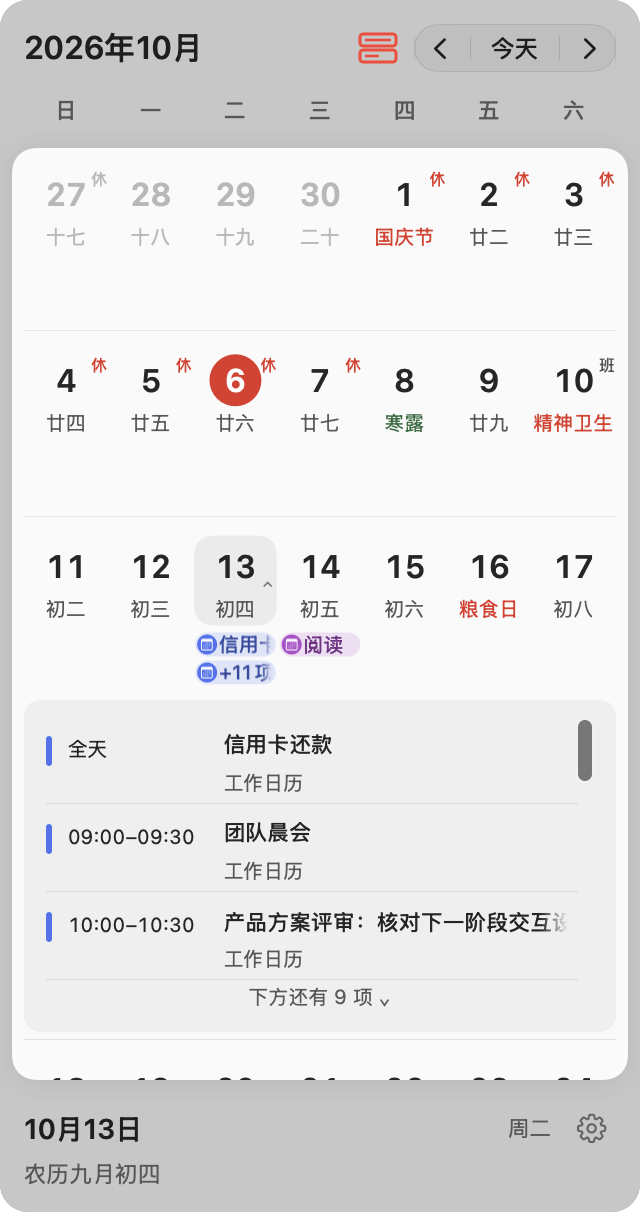
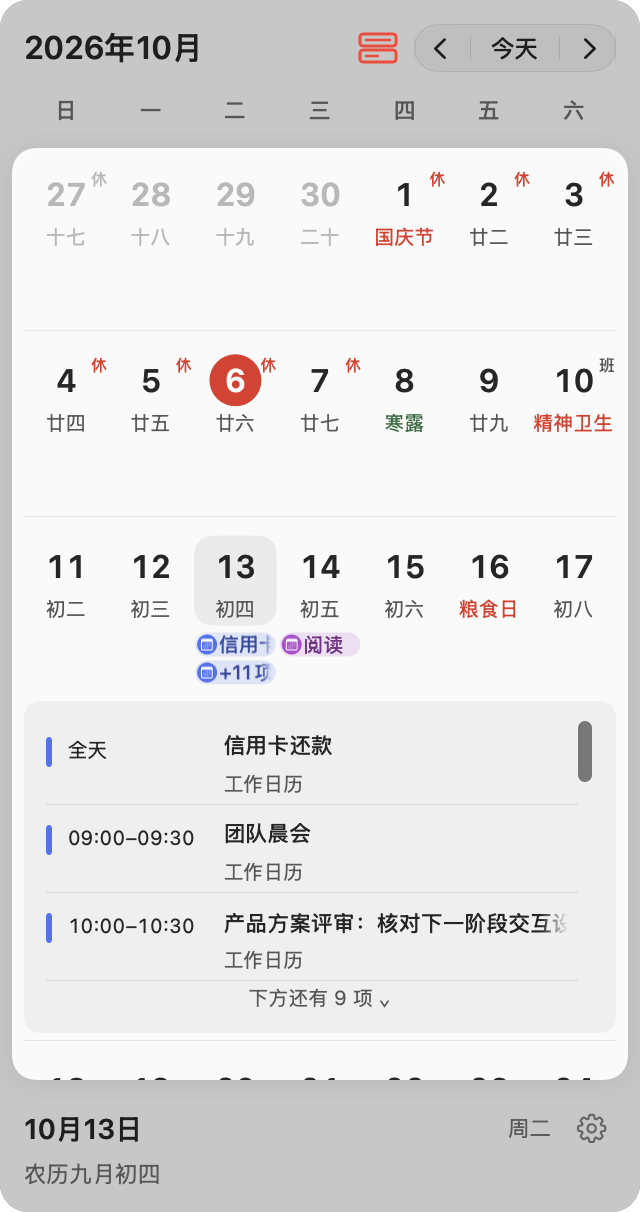
fix(calendar): 修复日程标题点击重影并移除日期箭头

diff --git a/Sources/DayOrder/CalendarAgendaTitleSmoke.swift b/Sources/DayOrder/CalendarAgendaTitleSmoke.swift
@@ -1,0 +1,84 @@
+#if DEBUG
+import AppKit
+
+@MainActor enum CalendarAgendaTitleSmoke {
+    static func verify(title: NSTextField, root: NSView, name: String,
+                       save: (NSView, String) throws -> Void) throws {
+        func require(_ condition: Bool, _ message: String) throws {
+            guard condition else { throw NSError(domain: "DayOrder.AgendaTitle", code: 1,
+                userInfo: [NSLocalizedDescriptionKey: message]) }
+        }
+        func capture() throws -> NSBitmapImageRep {
+            guard let bitmap = title.bitmapImageRepForCachingDisplay(in: title.bounds) else {
+                throw CocoaError(.coderInvalidValue)
+            }
+            title.cacheDisplay(in: title.bounds, to: bitmap)
+            return bitmap
+        }
+        guard let window = title.window else { throw CocoaError(.coderInvalidValue) }
+        window.makeFirstResponder(nil)
+        defer { window.makeFirstResponder(nil) }
+        let font = title.font
+        let before = try capture()
+        for attempt in 1...2 {
+            let point = title.convert(NSPoint(x: 40, y: title.bounds.midY), to: nil)
+            let timestamp = ProcessInfo.processInfo.systemUptime
+            guard let down = NSEvent.mouseEvent(with: .leftMouseDown, location: point, modifierFlags: [],
+                timestamp: timestamp, windowNumber: window.windowNumber, context: nil,
+                eventNumber: 1, clickCount: 1, pressure: 1),
+                  let up = NSEvent.mouseEvent(with: .leftMouseUp, location: point, modifierFlags: [],
+                timestamp: timestamp + 0.01, windowNumber: window.windowNumber, context: nil,
+                eventNumber: 2, clickCount: 1, pressure: 0) else { throw CocoaError(.coderInvalidValue) }
+            NSApp.postEvent(up, atStart: false)
+            NSApp.sendEvent(down)
+            guard let editor = title.currentEditor() else { throw NSError(domain: "DayOrder.AgendaTitle", code: 1,
+                userInfo: [NSLocalizedDescriptionKey: "真实点击未进入标题选择状态：\(name)"]) }
+            try require(editor.string == title.stringValue && title.font == font, "点击改变了标题或字体：\(name)")
+            // 原生快照会重新组织文字选择层；保持实时焦点，仅取底层字段的绘制输出。
+            let underneath: NSBitmapImageRep = try {
+                guard let bitmap = title.bitmapImageRepForCachingDisplay(in: title.bounds),
+                      let context = NSGraphicsContext(bitmapImageRep: bitmap) else { throw CocoaError(.coderInvalidValue) }
+                NSGraphicsContext.saveGraphicsState()
+                defer { NSGraphicsContext.restoreGraphicsState() }
+                let cg = context.cgContext
+                cg.clear(CGRect(x: 0, y: 0, width: bitmap.pixelsWide, height: bitmap.pixelsHigh))
+                cg.translateBy(x: 0, y: CGFloat(bitmap.pixelsHigh))
+                cg.scaleBy(x: CGFloat(bitmap.pixelsWide) / title.bounds.width,
+                           y: -CGFloat(bitmap.pixelsHigh) / title.bounds.height)
+                NSGraphicsContext.current = NSGraphicsContext(cgContext: cg, flipped: true)
+                title.draw(title.bounds)
+                return bitmap
+            }()
+            var peak: CGFloat = 0
+            for y in 0..<underneath.pixelsHigh {
+                for x in 0..<underneath.pixelsWide {
+                    peak = max(peak, underneath.colorAt(x: x, y: y)?.alphaComponent ?? 0)
+                }
+            }
+            try require(peak < 0.1, "选择状态仍重复绘制标题：\(name)，底层透明度=\(peak)")
+            try save(root, "agenda-title-\(name)-selected-\(attempt)")
+            window.makeFirstResponder(nil)
+            try require(title.currentEditor() == nil, "退出选择后仍保留文字层")
+            let after = try capture()
+            try require(before.pixelsWide == after.pixelsWide && before.pixelsHigh == after.pixelsHigh,
+                        "点击改变了标题绘制尺寸")
+            var error: CGFloat = 0
+            for y in 0..<before.pixelsHigh {
+                for x in 0..<before.pixelsWide {
+                    guard let a = before.colorAt(x: x, y: y)?.usingColorSpace(.deviceRGB),
+                          let b = after.colorAt(x: x, y: y)?.usingColorSpace(.deviceRGB) else {
+                        throw CocoaError(.coderInvalidValue)
+                    }
+                    error += abs(a.redComponent * a.alphaComponent - b.redComponent * b.alphaComponent)
+                        + abs(a.greenComponent * a.alphaComponent - b.greenComponent * b.alphaComponent)
+                        + abs(a.blueComponent * a.alphaComponent - b.blueComponent * b.alphaComponent)
+                        + abs(a.alphaComponent - b.alphaComponent)
+                }
+            }
+            error /= CGFloat(before.pixelsWide * before.pixelsHigh * 4)
+            try require(error < 0.01, "退出选择后没有恢复原始标题与渐隐：\(name)，像素误差=\(error)")
+        }
+        try save(root, "agenda-title-\(name)-restored")
+    }
+}
+#endif

diff --git a/Sources/DayOrder/CalendarTimelineView.swift b/Sources/DayOrder/CalendarTimelineView.swift
@@ -620,7 +620,6 @@ final class CalendarWeekView: NSView {
                 today: model.today, selection: model.selection, enabled: model.engine.isSupported(day.date)) {
                     [weak model] in model?.activateVisibleDay(day.date, in: sectionMonth)
                 }
-            button.agendaExpanded = model.agenda?.date == day.date && !agendaView.isHidden
             button.setAccessibilityHelp(mode == .hidden ? nil : model.agenda?.date == day.date
                 ? "再次点击收起当天日程" : "选中后再次点击展开当天日程")
         }
@@ -651,7 +650,6 @@ final class CalendarWeekView: NSView {
 final class CalendarDayButton: NSButton, CalendarZoomParticipant {
     var zoomHiddenDays: Set<Int> = []
     var snapshotHidesEventMarkers = false
-    var agendaExpanded = false
     private var day: DayInfo?
     private var annotation: Annotation?
     private var holiday: HolidayDay?
@@ -749,16 +747,6 @@ final class CalendarDayButton: NSButton, CalendarZoomParticipant {
             drawText(holiday.badge, rect: NSRect(x: bounds.width - 9, y: 3, width: 9, height: 10),
                      font: .systemFont(ofSize: 8, weight: .medium),
                      color: !isInMonth ? muted : holiday.isOffDay ? Self.accent : CalendarSurface.secondaryTextColor)
-        }
-        if selected, eventMode != .hidden {
-            NSColor.secondaryLabelColor.setStroke()
-            let path = NSBezierPath()
-            path.lineWidth = 0.8
-            let y: CGFloat = agendaExpanded ? 26 : 23
-            path.move(to: NSPoint(x: bounds.width - 7, y: y))
-            path.line(to: NSPoint(x: bounds.width - 5, y: agendaExpanded ? y - 2 : y + 2))
-            path.line(to: NSPoint(x: bounds.width - 3, y: y))
-            path.stroke()
         }
         if !snapshotHidesEventMarkers, eventMode != .hidden, !events.isEmpty {
             NSGraphicsContext.saveGraphicsState()

diff --git a/Sources/DayOrder/AppDelegate.swift b/Sources/DayOrder/AppDelegate.swift
@@ -276,12 +276,15 @@ final class AppDelegate: NSObject, NSApplicationDelegate {
                 NSApp.terminate(nil)
                 return
             }
-            if ProcessInfo.processInfo.arguments.contains("--calendar-agenda-smoke") {
+            let agendaContentOnly = ProcessInfo.processInfo.arguments.contains("--calendar-agenda-content-smoke")
+            if agendaContentOnly || ProcessInfo.processInfo.arguments.contains("--calendar-agenda-smoke") {
                 guard let source = smokeCalendarSource, let presentation = presentationController else { throw CocoaError(.coderInvalidValue) }
                 defaults.set(1, forKey: "firstWeekday")
-                try await CalendarAgendaNavigationSmoke.verify(model: model, presentation: presentation,
-                    source: source, directory: directory,
-                    close: { self.panel.close() }, reopen: { self.showPanel() })
+                if !agendaContentOnly {
+                    try await CalendarAgendaNavigationSmoke.verify(model: model, presentation: presentation,
+                        source: source, directory: directory,
+                        close: { self.panel.close() }, reopen: { self.showPanel() })
+                }
                 try await CalendarAgendaSmoke.verify(model: model, presentation: presentation, source: source,
                     defaults: defaults, directory: directory) { view, name in
                     try self.saveViewSnapshot(view, name: name, to: directory)

diff --git a/Sources/DayOrder/CalendarAgendaSmoke.swift b/Sources/DayOrder/CalendarAgendaSmoke.swift
@@ -226,6 +226,14 @@ import DayOrderCore
                     try require(hasLine == (index < count - 1), "日程分隔线位置错误：\(appearance)，\(count)项，第\(index + 1)项，色差=\(difference)")
                     if hasLine { separators += 1 }
                 }
+                if count == 2 {
+                    try CalendarAgendaTitleSmoke.verify(title: title, root: presentation.view,
+                        name: "\(appearance)-long", save: save)
+                    guard let shortTitle = descendants(rows[1]).compactMap({ $0 as? NSTextField })
+                        .first(where: { $0.stringValue == events[1].title }) else { throw CocoaError(.coderInvalidValue) }
+                    try CalendarAgendaTitleSmoke.verify(title: shortTitle, root: presentation.view,
+                        name: "\(appearance)-short", save: save)
+                }
                 rowReport.append(["appearance": appearance, "count": count, "separators": separators])
             }
             let probe = CalendarEvent(id: "fade-probe", title: String(repeating: "█", count: 40),

diff --git a/Sources/DayOrder/CalendarDayAgendaView.swift b/Sources/DayOrder/CalendarDayAgendaView.swift
@@ -274,6 +274,8 @@ private final class CalendarAgendaEventView: NSView {
 
 private final class CalendarAgendaTitleField: NSTextField {
     override func draw(_ dirtyRect: NSRect) {
+        // 系统文字选择层拥有激活期间的字形，底层不能再叠绘渐隐标题。
+        guard currentEditor() == nil else { return }
         let text = NSAttributedString(string: stringValue.components(separatedBy: .newlines).joined(separator: " "),
             attributes: [.font: font ?? NSFont.systemFont(ofSize: 11, weight: .medium),
                          .foregroundColor: textColor ?? NSColor.labelColor])

diff --git a/docs/calendar-reference.md b/docs/calendar-reference.md
@@ -10,7 +10,7 @@
 - 隐藏日程时，每个月的四至六周均分在 286 pt 高度内；详细、精简和圆点模式分别增加日期区高度至 466、370 和 346 pt，自由浏览与吸附采用相同行高。吸附只平滑移动日期区，将月份标题移到视口上方，不隐藏行或重新排布日期；月份导航、年概览选择和“今天”也以整月显示。返回设置或年概览时恢复此前的吸附状态或自由滚动位置。
 - 顶部年月、星期栏和底部详情不随日期区滚动。顶部年月跟随最上方可见行所属的月份区块。滚动只改变浏览月份，点击日期更新选择和详情并保留滚动位置。每个区块内，仅用于补齐周行的邻月日期数字、农历、节日及休班标记共用弱化颜色：浅色模式使用灰白，深色模式使用暗灰，日期仍可点击；本区块日期保持正常配色，不受顶部年月影响。边界周可能同时出现在相邻月份区块中，作为本月日期时正常显示，作为邻月补位时置灰。
 - 右上角的左右箭头和“今天”组成一体胶囊导航，三个按钮各自响应悬停与按下，年份范围边界处对应箭头置灰禁用。左右箭头从正在浏览的月份切换，保留选中日号，短月取月末，并以约 360 ms 先快后缓、无回弹的纵向动画展示目标整月。连续点击按已请求月份累计，反向点击从当前画面接续；月视图的“今天”采用与箭头一致的先快后缓、无回弹非线性动画，从当前日期区位置滚回今天所在月份，到达后选中今天并更新详情；动画约 0.45–0.70 秒，远距离移动加速，已经完整显示当月时不额外移动。手动滚动、选择其他日期、再次导航或离开月视图会取消旧动画；系统开启“减少动态效果”时直接定位。进入设置或年概览后返回保留浏览位置，从年概览选择月份则定位到目标月。
-- 朱红圆形表示今天，无描边的浅灰连续圆角底表示选中日期。选中底色、按下反馈与键盘焦点只包住日期数字及农历／节日文字，不延伸到日程区域；点击范围仍包含整个日期格。
+- 朱红圆形表示今天，无描边的浅灰连续圆角底表示选中日期。选中底色、按下反馈与键盘焦点只包住日期数字及农历／节日文字，不延伸到日程区域；点击范围仍包含整个日期格。日期格不显示日程展开／收起箭头。
 - 月视图与年概览之间使用无回弹弹簧过渡，感知时长为 300 ms，并在接近静止后结束尾部运动；按所在显示器的刷新节奏推进。中间圆角容器同步调整尺寸，从月视图进入年概览时，以点击瞬间可见面积最大的月份区块为焦点（包含该区块的标题与补位周），面积相同选择时间较晚的月份；焦点不依赖顶部标题或选中日期，并保持到返回原滚动位置。点击年概览中的具体月份则以该月份为焦点。整张日历画布统一缩放和平移；邻月、月份标题、星期、日期和今天红圈一同运动，周围月份随放大移出视口。焦点月份的日期和今天红圈只绘制一份，随共享进度连续展开行距和字号；农历、节日等详情跟随网格渐显。背景按最大显示尺寸预绘制，日期使用原生文字保持清晰。背景与上下栏容器常驻，底栏跟随卡片边缘移动，上下栏内容独立进行约 180 ms 交叉淡化。快速返回或进入设置时，从当前画面与速度接续到新目标；关闭弹窗立即清理过渡。开启系统“减少动态效果”，或返回时原月份已不在年概览可见范围内，则使用约 120 ms 的短淡化。
 - 底部日期详情展示当天节日、世界日和节气的一句话说明；同日多项分别展示，随对应分类开关隐藏，普通日期不显示说明区域。内容内置，离线可读。节气介绍概括传统时令，不是当地天气预报。
 - 菜单栏弹窗采用无箭头圆角面板，位于图标下方；切月、选择日期或切换页面改变高度时，顶部保持锚定，底边随内容伸缩；靠近屏幕边缘时向内调整位置。再次点击图标、点击外部或切换应用时关闭，Esc 保留逐层返回行为；切换桌面空间或显示器布局后关闭，重新点击图标定位。
@@ -69,7 +69,7 @@
 
 同周内优先为跨日日程分配固定行，随后放置单日日程，同一横条不会因某天有其他日程而上下错位。详细模式最多两行，超出时末行显示该日未展开的“+N项”；若末行横条与计数冲突，整段让位并计入各日数量，避免只截断其中一天。精简模式最多三行，同样连接跨日横线；圆点模式仍按日最多显示三个点。颜色沿用来源日历，完整日程标题与数量可通过日期按钮的旁白标签读取。隐藏模式不绘制日程，也不在旁白标签中暴露事件标题。
 
-非隐藏模式下，首次点击日期只选中，再次点击同一天，在所在周的下方展开横跨七列的当天日程；再次点击或按 Esc 关闭。展开时点击其他日期直接切换列表，当前周及上方日期保持原位，详情紧接整周实际显示内容：无日程标记时靠近农历／节日文字，有标记时按整周最末一行（含跨日段与溢出计数）留出间距；回收展开周底部未使用的空白，仅下方周行按净新增高度向下让出空间；展开和收起均保持窗口、日历可视区、顶部导航及底部日期详情的位置与大小不变。经过可视区边缘的周行保持不透明并连续移动，由边缘自然裁切；收起时从下方滑回。超出可视区的后续日期和月末日程通过滚动日历查看。列表标题保持单行，超出宽度时在右侧渐隐截断，完整标题可悬停查看并供旁白读取；时间、下一行的来源日历名及颜色保留，全天日程在前。分隔线仅出现在相邻日程之间，最后一项下方不显示；跨日时间以“续前日／续次日”说明，悬停时间可查看完整起止时间。少量日程按内容高度展示，多量日程的列表最高 132 pt；卡片使用纯圆角矩形，不显示顶部尖角、日期、总数或收起控件，日期与总数供旁白读取；内容超过列表高度时独立滚动，到达边缘也不滚动月份；内容全部可见或为空时，鼠标在列表正文上滚动会带动外层日历。底部显示尚未完整出现的日程数量，到底后显示“已显示全部日程”。
+非隐藏模式下，首次点击日期只选中，再次点击同一天，在所在周的下方展开横跨七列的当天日程；再次点击或按 Esc 关闭。展开时点击其他日期直接切换列表，当前周及上方日期保持原位，详情紧接整周实际显示内容：无日程标记时靠近农历／节日文字，有标记时按整周最末一行（含跨日段与溢出计数）留出间距；回收展开周底部未使用的空白，仅下方周行按净新增高度向下让出空间；展开和收起均保持窗口、日历可视区、顶部导航及底部日期详情的位置与大小不变。经过可视区边缘的周行保持不透明并连续移动，由边缘自然裁切；收起时从下方滑回。超出可视区的后续日期和月末日程通过滚动日历查看。列表标题保持单行，超出宽度时在右侧渐隐截断，完整标题可悬停查看并供旁白读取；选择标题文字时使用系统文字显示，结束选择后恢复渐隐；时间、下一行的来源日历名及颜色保留，全天日程在前。分隔线仅出现在相邻日程之间，最后一项下方不显示；跨日时间以“续前日／续次日”说明，悬停时间可查看完整起止时间。少量日程按内容高度展示，多量日程的列表最高 132 pt；卡片使用纯圆角矩形，不显示顶部尖角、日期、总数或收起控件，日期与总数供旁白读取；内容超过列表高度时独立滚动，到达边缘也不滚动月份；内容全部可见或为空时，鼠标在列表正文上滚动会带动外层日历。底部显示尚未完整出现的日程数量，到底后显示“已显示全部日程”。
 
 展开状态只保存在本次弹窗中。滚动、月份导航与返回今天保留原日期的展开状态，返回今天连续滚动到今天所在月份，不将详情迁移到今天；进入设置或年概览再返回同样保留。关闭弹窗后清空展开状态，下次打开默认收起。再次点击展开日期、月视图中的 Esc 或切为隐藏模式可主动收起。再次打开或切换展开日期时滚动位置归零。列表复用现有事件查询，不额外读取系统日历；读取中、权限受限、读取失败和当天无日程分别展示对应状态。隐藏模式点击日期不会展开日程或触发日历读取。系统事件变更后，展开列表同步刷新。
 

diff --git a/docs/verification.md b/docs/verification.md
@@ -26,7 +26,9 @@
 python3 scripts/run-smoke.py "$PWD/build/agenda-smoke" --calendar-agenda-smoke
 ```
 
-该检查通过生产日期按钮、原生周行和展示控制器，覆盖首次选择、再次展开／收起、展开动画与端点的窗口／可视区尺寸不变、底部详情固定、后续周行下移与收起归位、月末日程通过滚动日历完整可见、切日重置、12 项日程的内部滚动与到底提示、固定剩余数量提示、少量自适应和空状态、深浅色、周日／周一起始、月末跨日日程、快速反向、减少动态效果、设置与年概览返回、月份导航和 Esc 分层收起。导航回归通过真实“今天”按钮覆盖一月一日、今天和当月其他日期展开后滚动到邻月，再返回今天：记录 `agenda-navigation.json` 中的中间滚动位置，要求原详情保留且没有淡入过渡；选中日期与展开日期不同时，点击选中日期可切换详情。另覆盖从 2027 年 3 月返回 2026 年 11 月，先确认原日期离开查询范围，再要求一次点击到达目标；返回末段详情可见时注入事件更新，要求更新已生效且导航未被取消、没有详情淡入。通过生产弹窗关闭／打开入口验证清空与默认收起。设置与年概览只暂时离开详情页面，不清除展开选择。挂起读取验证加载状态与隐藏后的迟到结果，另验证读取失败、隐藏时不访问权限或数据，以及展开时删除事件同步刷新。输出 `agenda.json`、`agenda-{light,dark}-{opening,expanded,scrolled}.png`、`agenda-last-week-{2,8}.png` 与 `result.txt`。`agenda-edge.json` 和 `agenda-edge-{light,dark}-{opening,closing}.png` 另覆盖十二月自由浏览，逐帧比较 13–19 日与 20–26 日的位移及绘制透明度，验证后者完全移出可视区及重新进入时持续平移且不淡出。`agenda-spacing.json` 与 `agenda-spacing-{light,dark}-{empty,one,two-other-day,overflow,span}.png` 检查整周零行、一行、两行、其他日期多项、溢出计数和跨日段，覆盖详细、精简、圆点模式下详情紧贴实际内容、日期位置与窗口尺寸不变、日期快照区域不与详情重叠、详情下方不残留回收的空白。`agenda-rows.json` 与 `agenda-rows-{light,dark}-{1,2,3}.png` 检查单行长标题、完整悬停文本及一至三项日程的分隔线像素，分隔线数量须为日程数量减一；实心字形样例检查标题正文与尾部透明度，确认右端渐隐。长标题右侧渐隐、时间和来源日历名需人工检查截图；本专项不证明真实账户同步、物理触控板手感、旁白完整体验或不同显示器上的实际操作体验。
+该检查通过生产日期按钮、原生周行和展示控制器，覆盖首次选择、再次展开／收起、展开动画与端点的窗口／可视区尺寸不变、底部详情固定、后续周行下移与收起归位、月末日程通过滚动日历完整可见、切日重置、12 项日程的内部滚动与到底提示、固定剩余数量提示、少量自适应和空状态、深浅色、周日／周一起始、月末跨日日程、快速反向、减少动态效果、设置与年概览返回、月份导航和 Esc 分层收起。导航回归通过真实“今天”按钮覆盖一月一日、今天和当月其他日期展开后滚动到邻月，再返回今天：记录 `agenda-navigation.json` 中的中间滚动位置，要求原详情保留且没有淡入过渡；选中日期与展开日期不同时，点击选中日期可切换详情。另覆盖从 2027 年 3 月返回 2026 年 11 月，先确认原日期离开查询范围，再要求一次点击到达目标；返回末段详情可见时注入事件更新，要求更新已生效且导航未被取消、没有详情淡入。通过生产弹窗关闭／打开入口验证清空与默认收起。设置与年概览只暂时离开详情页面，不清除展开选择。挂起读取验证加载状态与隐藏后的迟到结果，另验证读取失败、隐藏时不访问权限或数据，以及展开时删除事件同步刷新。输出 `agenda.json`、`agenda-{light,dark}-{opening,expanded,scrolled}.png`、`agenda-last-week-{2,8}.png` 与 `result.txt`。`agenda-edge.json` 和 `agenda-edge-{light,dark}-{opening,closing}.png` 另覆盖十二月自由浏览，逐帧比较 13–19 日与 20–26 日的位移及绘制透明度，验证后者完全移出可视区及重新进入时持续平移且不淡出。`agenda-spacing.json` 与 `agenda-spacing-{light,dark}-{empty,one,two-other-day,overflow,span}.png` 检查整周零行、一行、两行、其他日期多项、溢出计数和跨日段，覆盖详细、精简、圆点模式下详情紧贴实际内容、日期位置与窗口尺寸不变、日期快照区域不与详情重叠、详情下方不残留回收的空白。`agenda-rows.json` 与 `agenda-rows-{light,dark}-{1,2,3}.png` 检查单行长标题、完整悬停文本及一至三项日程的分隔线像素，分隔线数量须为日程数量减一；实心字形样例检查标题正文与尾部透明度，确认右端渐隐。标题点击回归在深浅色下各对长短标题执行两次真实鼠标点击，确认进入系统文字选择状态、字体与完整文本不变；保留实时选择焦点并单独采集底层字段绘制，检查无重复字形，退出选择后与点击前逐像素比较，确认渐隐恢复。`agenda-title-{light,dark}-{long,short}-{selected-1,selected-2,restored}.png` 保留对应画面；原实现必须在底层重复绘制断言失败。长标题右侧渐隐、时间和来源日历名需人工检查截图；本专项不证明真实账户同步、物理触控板手感、旁白完整体验或不同显示器上的实际操作体验。
+
+仅验证日程内容及其展开交互时，可使用 `--calendar-agenda-content-smoke` 运行上述内容检查（包括标题点击、渐隐、分隔线、固定窗口、内部滚动和边缘动画），不执行前置的跨月返回今天及弹窗重开导航检查。完整导航覆盖仍使用 `--calendar-agenda-smoke`，内容检查通过不能代替导航结果。
 
 日程列表的鼠标位置与滚轮分发提供独立专项：
 

diff --git a/docs/notes/implemented/bug-fix/2026-11-11-agenda-title-selection-overdraw.md b/docs/notes/implemented/bug-fix/2026-11-11-agenda-title-selection-overdraw.md
@@ -1,0 +1,20 @@
+# Agent Note: Agenda Title Selection Rendering
+
+Status: implemented
+
+## Problem
+
+[单行日程标题](../feature/2026-11-11-agenda-single-line-rows.md)使用自定义位图绘制渐隐，同时保留原生文本选择。点击长标题后，系统 field editor（文字编辑与选择层）绘制文本，底层仍绘制渐隐标题，两份字形轻微错位形成加粗和重影；字体本身未变化。
+
+## Decision
+
+以原生字段的当前文字选择层为绘制所有者：存在选择层时底层字段不再绘制文字，由系统选择层显示；不存在时按原规则绘制单行渐隐标题。不新增焦点标记、事件监听或缓存状态，避免状态与原生焦点生命周期不同步。保留文本选择、完整悬停提示和无障碍文本。
+
+## Alternatives considered
+
+- 禁止标题选择：能够绕开重复绘制，但会删除既有选择和复制能力。
+- 调整字体粗细或文字透明度：不能消除两个绘制所有者，不同点击与焦点状态仍会产生重影。
+
+## Consequences
+
+选择期间的文本显示由系统拥有，结束选择后恢复原渐隐。真实日程专项通过原生鼠标事件，在深浅色下对长短标题反复点击，检查完整文本、字体、底层重复绘制与退出后的像素恢复；旧实现必须在长标题底层仍有文字的断言失败。保留各状态截图，范围不包含完整旁白、所有键盘扩选或第三方输入法行为。

diff --git a/docs/notes/implemented/feature/2026-11-11-agenda-single-line-rows.md b/docs/notes/implemented/feature/2026-11-11-agenda-single-line-rows.md
@@ -20,4 +20,4 @@ Status: implemented
 
 ## Consequences
 
-单项无分隔线，两个和三个日程分别有一条、两条；数据增删会重建当前事件行并更新末项身份。真实专项覆盖深浅色长标题、一至三项分隔线像素和动态刷新，临时恢复末项分隔线时，单项像素断言必须失败。原多项滚动及导航检查继续约束固定窗口与末项可达性；截图检查渐隐和来源名称。完整标题保留在原生文本字段与悬停提示中，不以此声称完整旁白或文本选择操作已验证。
+单项无分隔线，两个和三个日程分别有一条、两条；数据增删会重建当前事件行并更新末项身份。真实专项覆盖深浅色长标题、一至三项分隔线像素和动态刷新，临时恢复末项分隔线时，单项像素断言必须失败。原多项滚动及导航检查继续约束固定窗口与末项可达性；截图检查渐隐和来源名称。完整标题保留在原生文本字段与悬停提示中。[标题选择绘制](../bug-fix/2026-11-11-agenda-title-selection-overdraw.md)补充系统选择层与渐隐层的互斥规则及点击回归；完整旁白与键盘扩选仍未由此证明。

diff --git a/docs/notes/implemented/feature/2026-11-10-agenda-compact-header.md b/docs/notes/implemented/feature/2026-11-10-agenda-compact-header.md
@@ -8,7 +8,7 @@ Status: implemented
 
 ## Decision
 
-部分取代[当天日程展开](2026-11-10-inline-day-agenda.md)的固定文字标题与关闭按钮。移除标题视图、收起控件及其回调、尖角绘制与定位数据；卡片仅保留圆角背景和正文，将顶部占用由 32 pt 收紧为 12 pt 留白。日期与总数保留在列表的无障碍标签中，通过再次点击已展开日期或 Esc 收起。正文、剩余数量提示和展开会话规则不变。
+部分取代[当天日程展开](2026-11-10-inline-day-agenda.md)的固定文字标题与关闭按钮。移除标题视图、收起控件及其回调、尖角绘制与定位数据；卡片仅保留圆角背景和正文，将顶部占用由 32 pt 收紧为 12 pt 留白。日期与总数保留在列表的无障碍标签中，通过再次点击已展开日期或 Esc 收起。日期格右侧的展开／收起箭头也移除，删除仅供箭头绘制的展开标记；点击动作与无障碍操作提示继续保留。正文、剩余数量提示和展开会话规则不变。
 
 ## Alternatives considered
 
